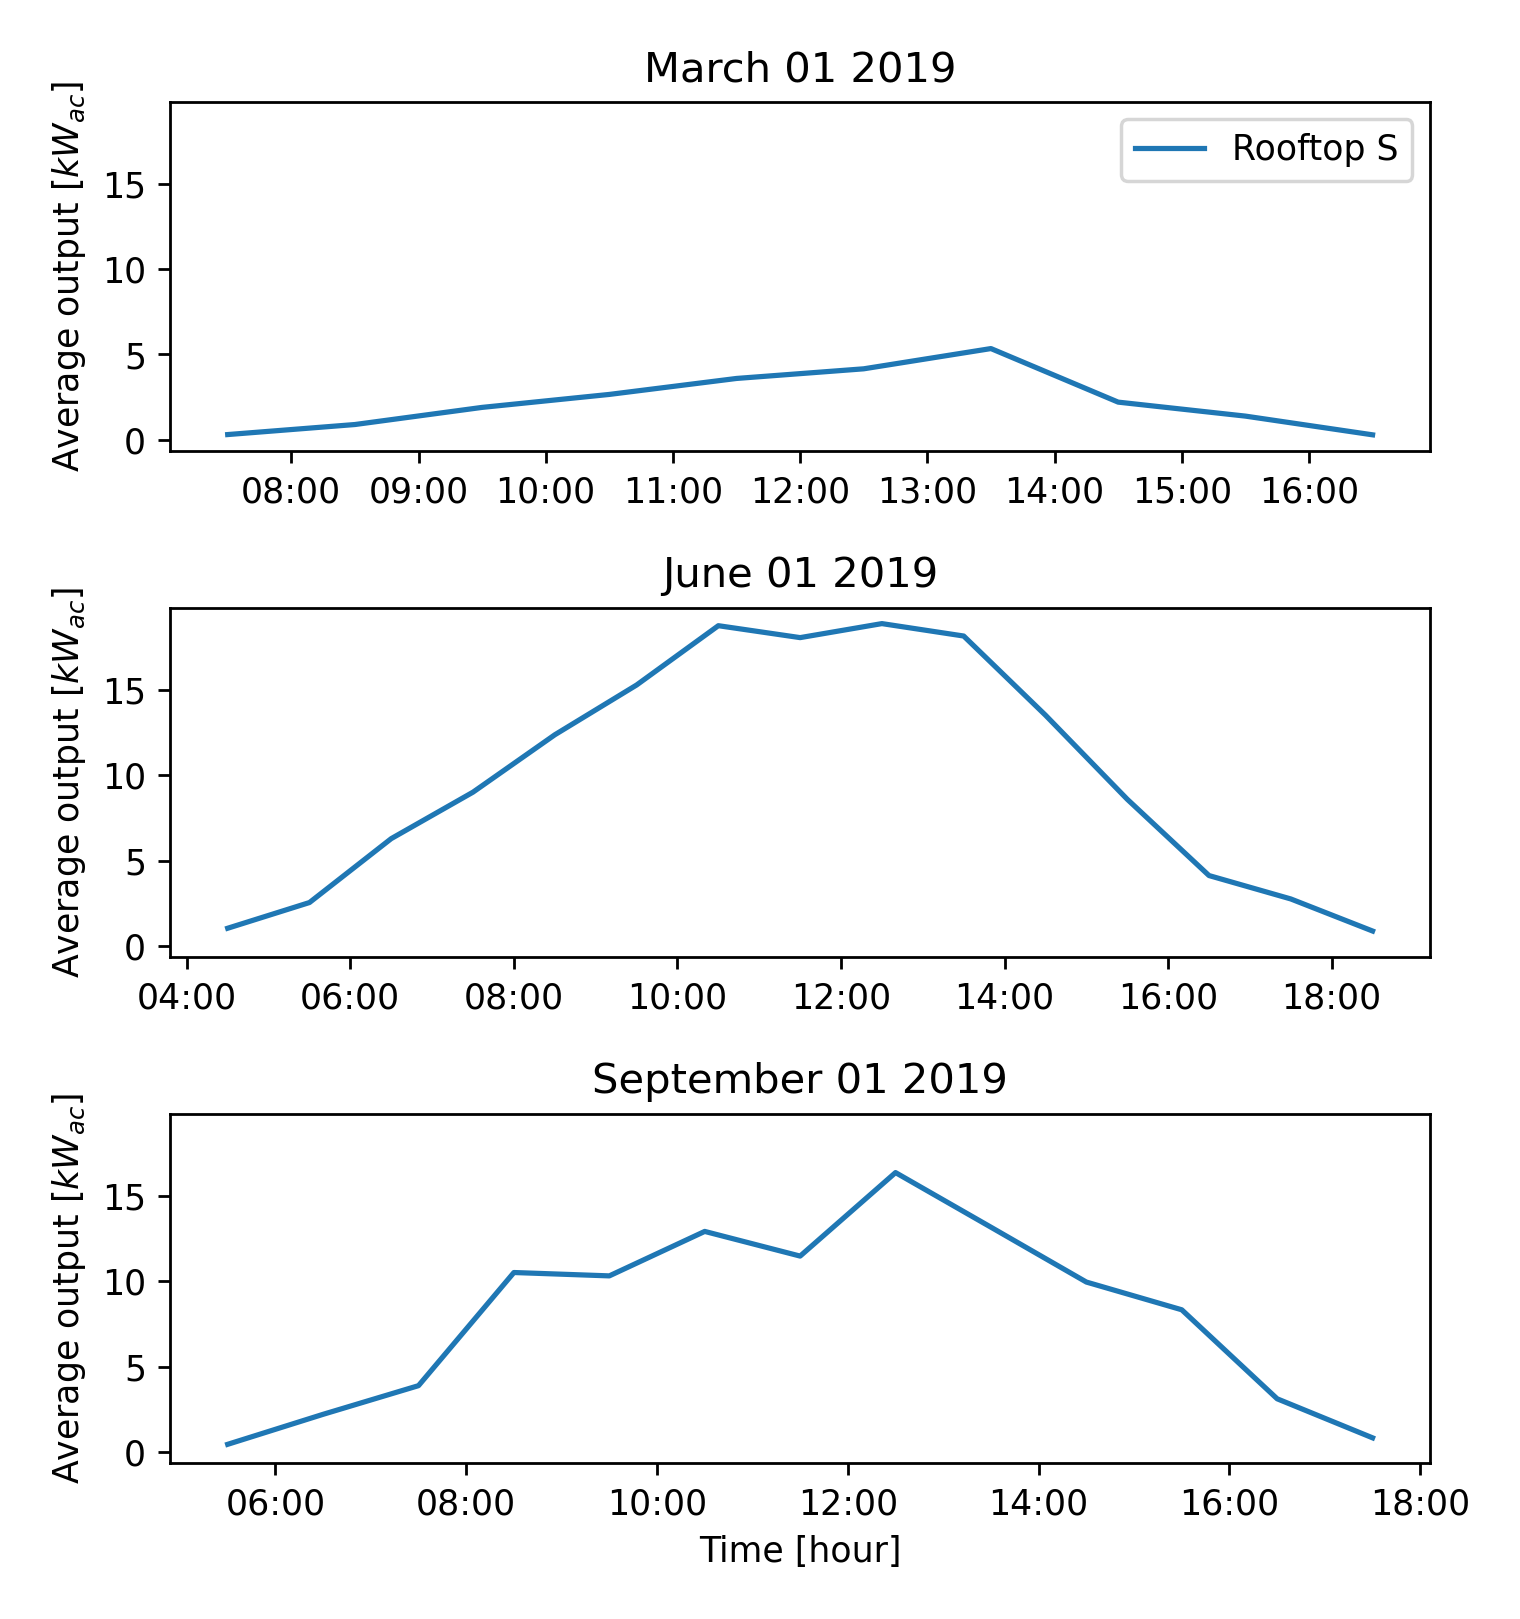
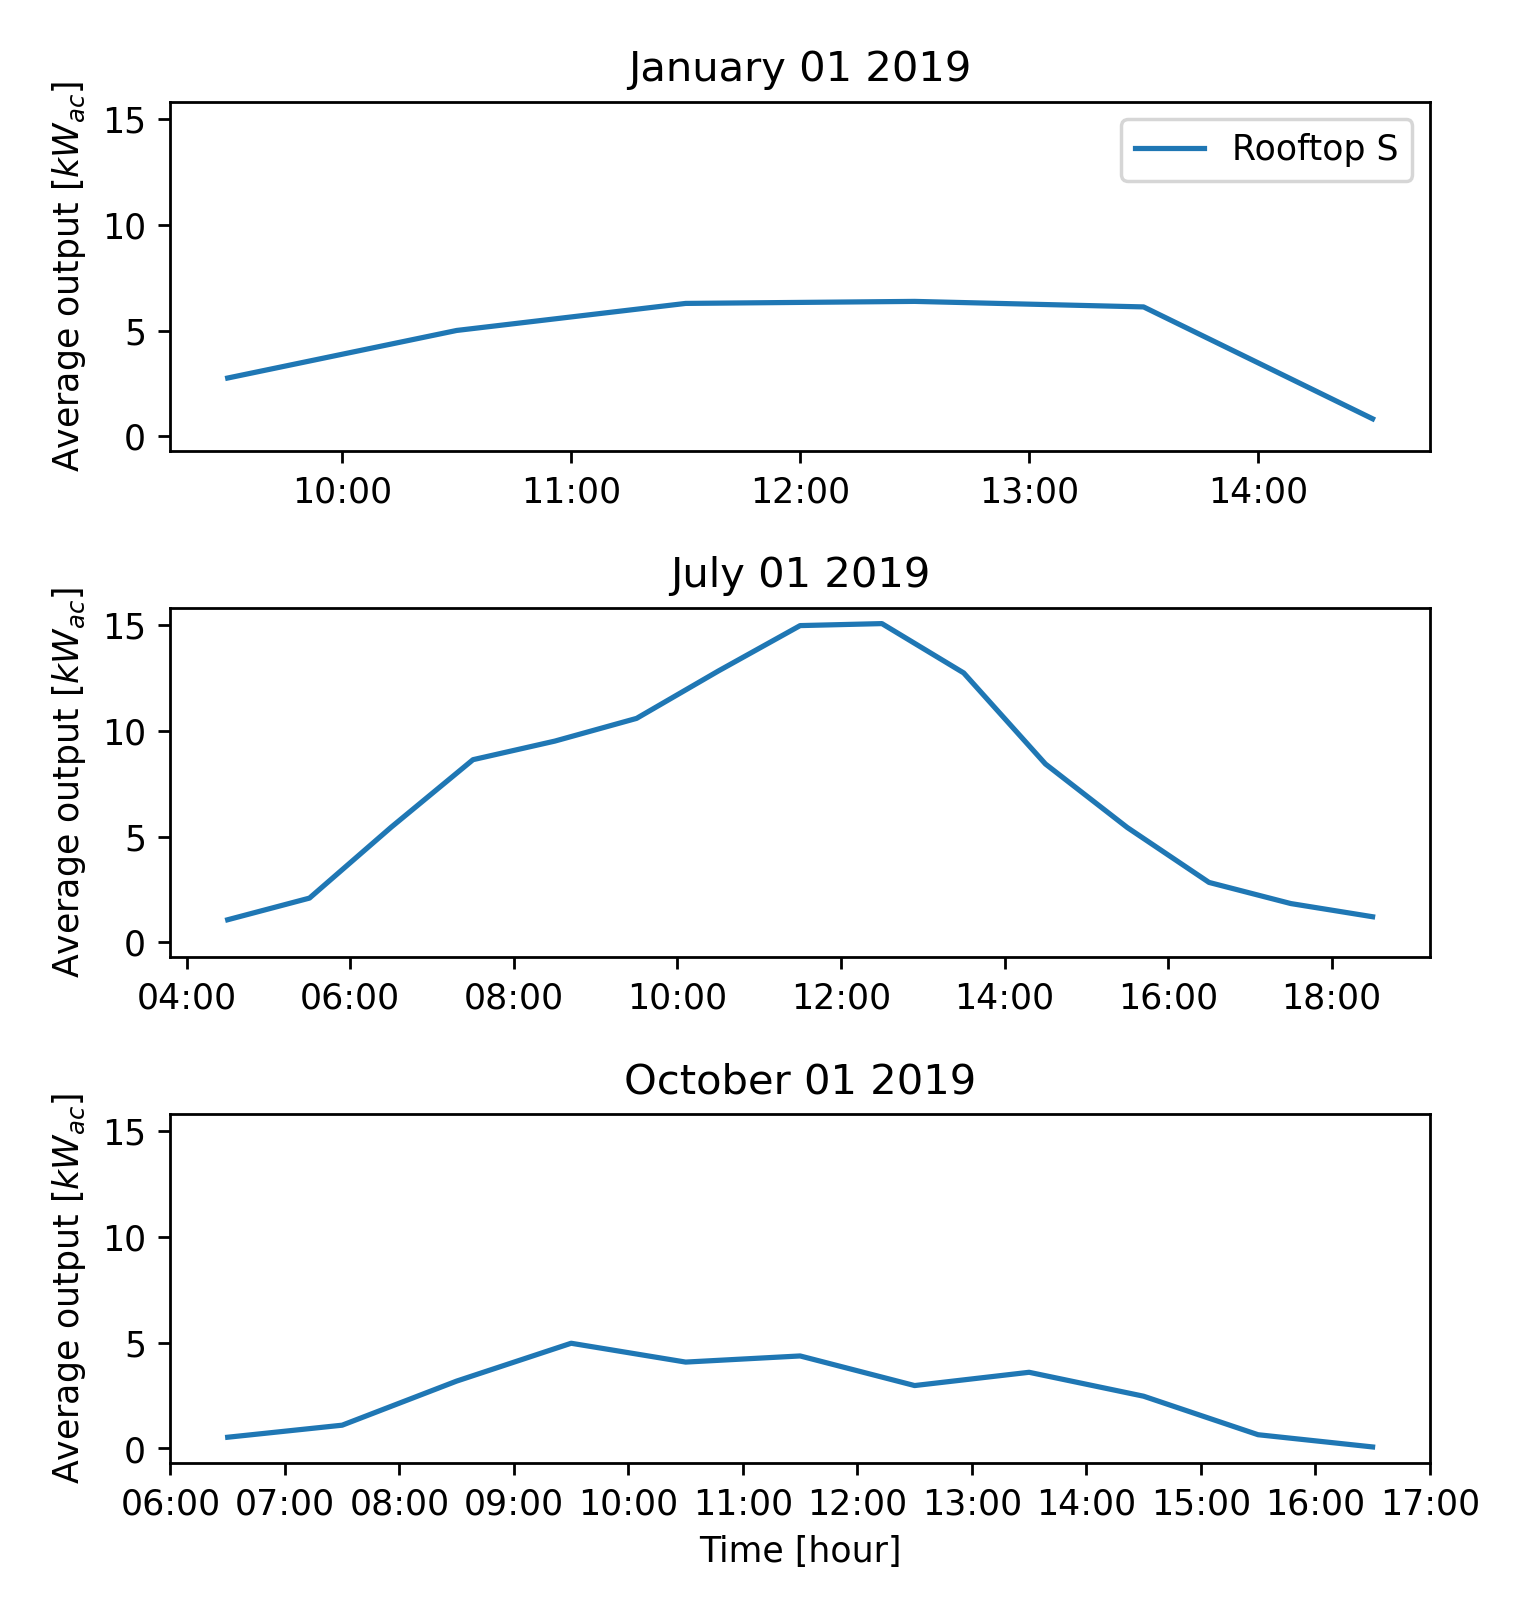
Change the dates of the daily line graphs

diff --git a/src/question3.py b/src/question3.py
@@ -13,7 +13,7 @@ Question 3 is answered in three steps:
     a. Create a bar chart with the total annual yield DC
     b. Create a bar chart with the total annual yield AC
     c. Create a LaTeX table for all facades with the best module, capacity, tilt, and orientation
-    
+
 The calculations for question 4 are already done during question3, so only the figures have to be created
 1. Create a bar chart for the total annual AC yield
 2. Create a bar chart for the specific annual AC yield
@@ -266,7 +266,7 @@ create_bar_chart_for_all_modules('specific_annual_yield_dc', filename='specific_
 create_bar_chart_for_all_modules(
     'annual_inverter_efficiency', filename='annual_inverter_efficiency', ylabel='Annual inverter efficiency')
 create_bar_chart_per_building()
-create_line_chart_for_day(['2019-03-01', '2019-06-01', '2019-09-01'])
+create_line_chart_for_day(['2019-01-01', '2019-07-01', '2019-10-01'])
 
 # Save the buildings info in a new JSON file
 # utils.files.save_json_file(
